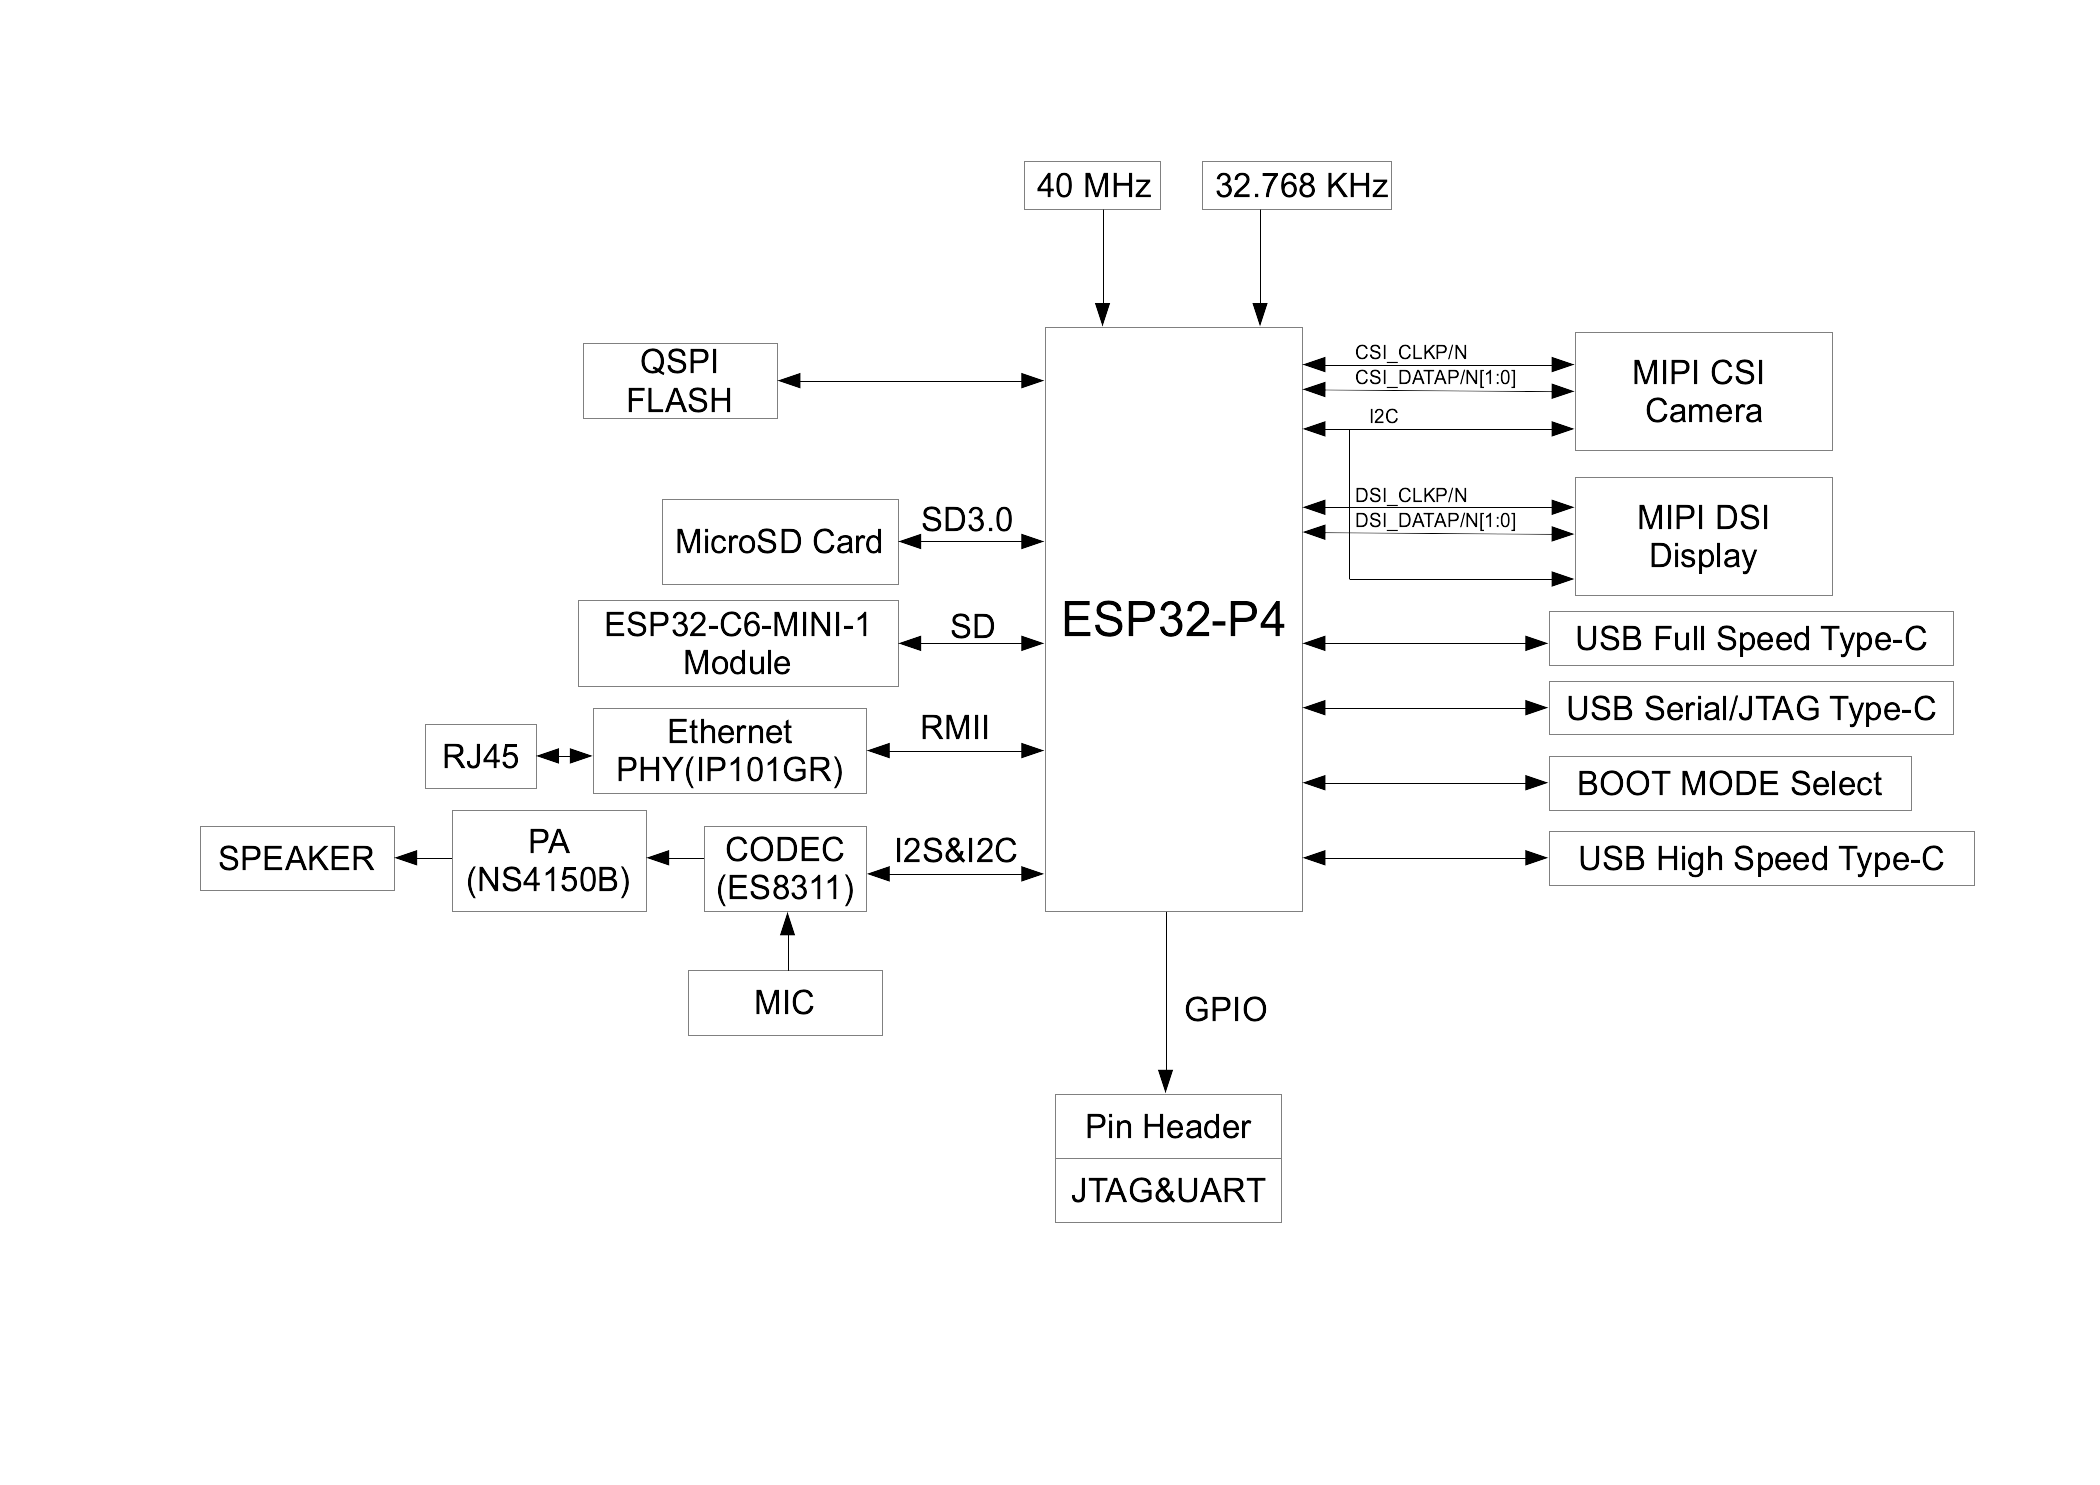
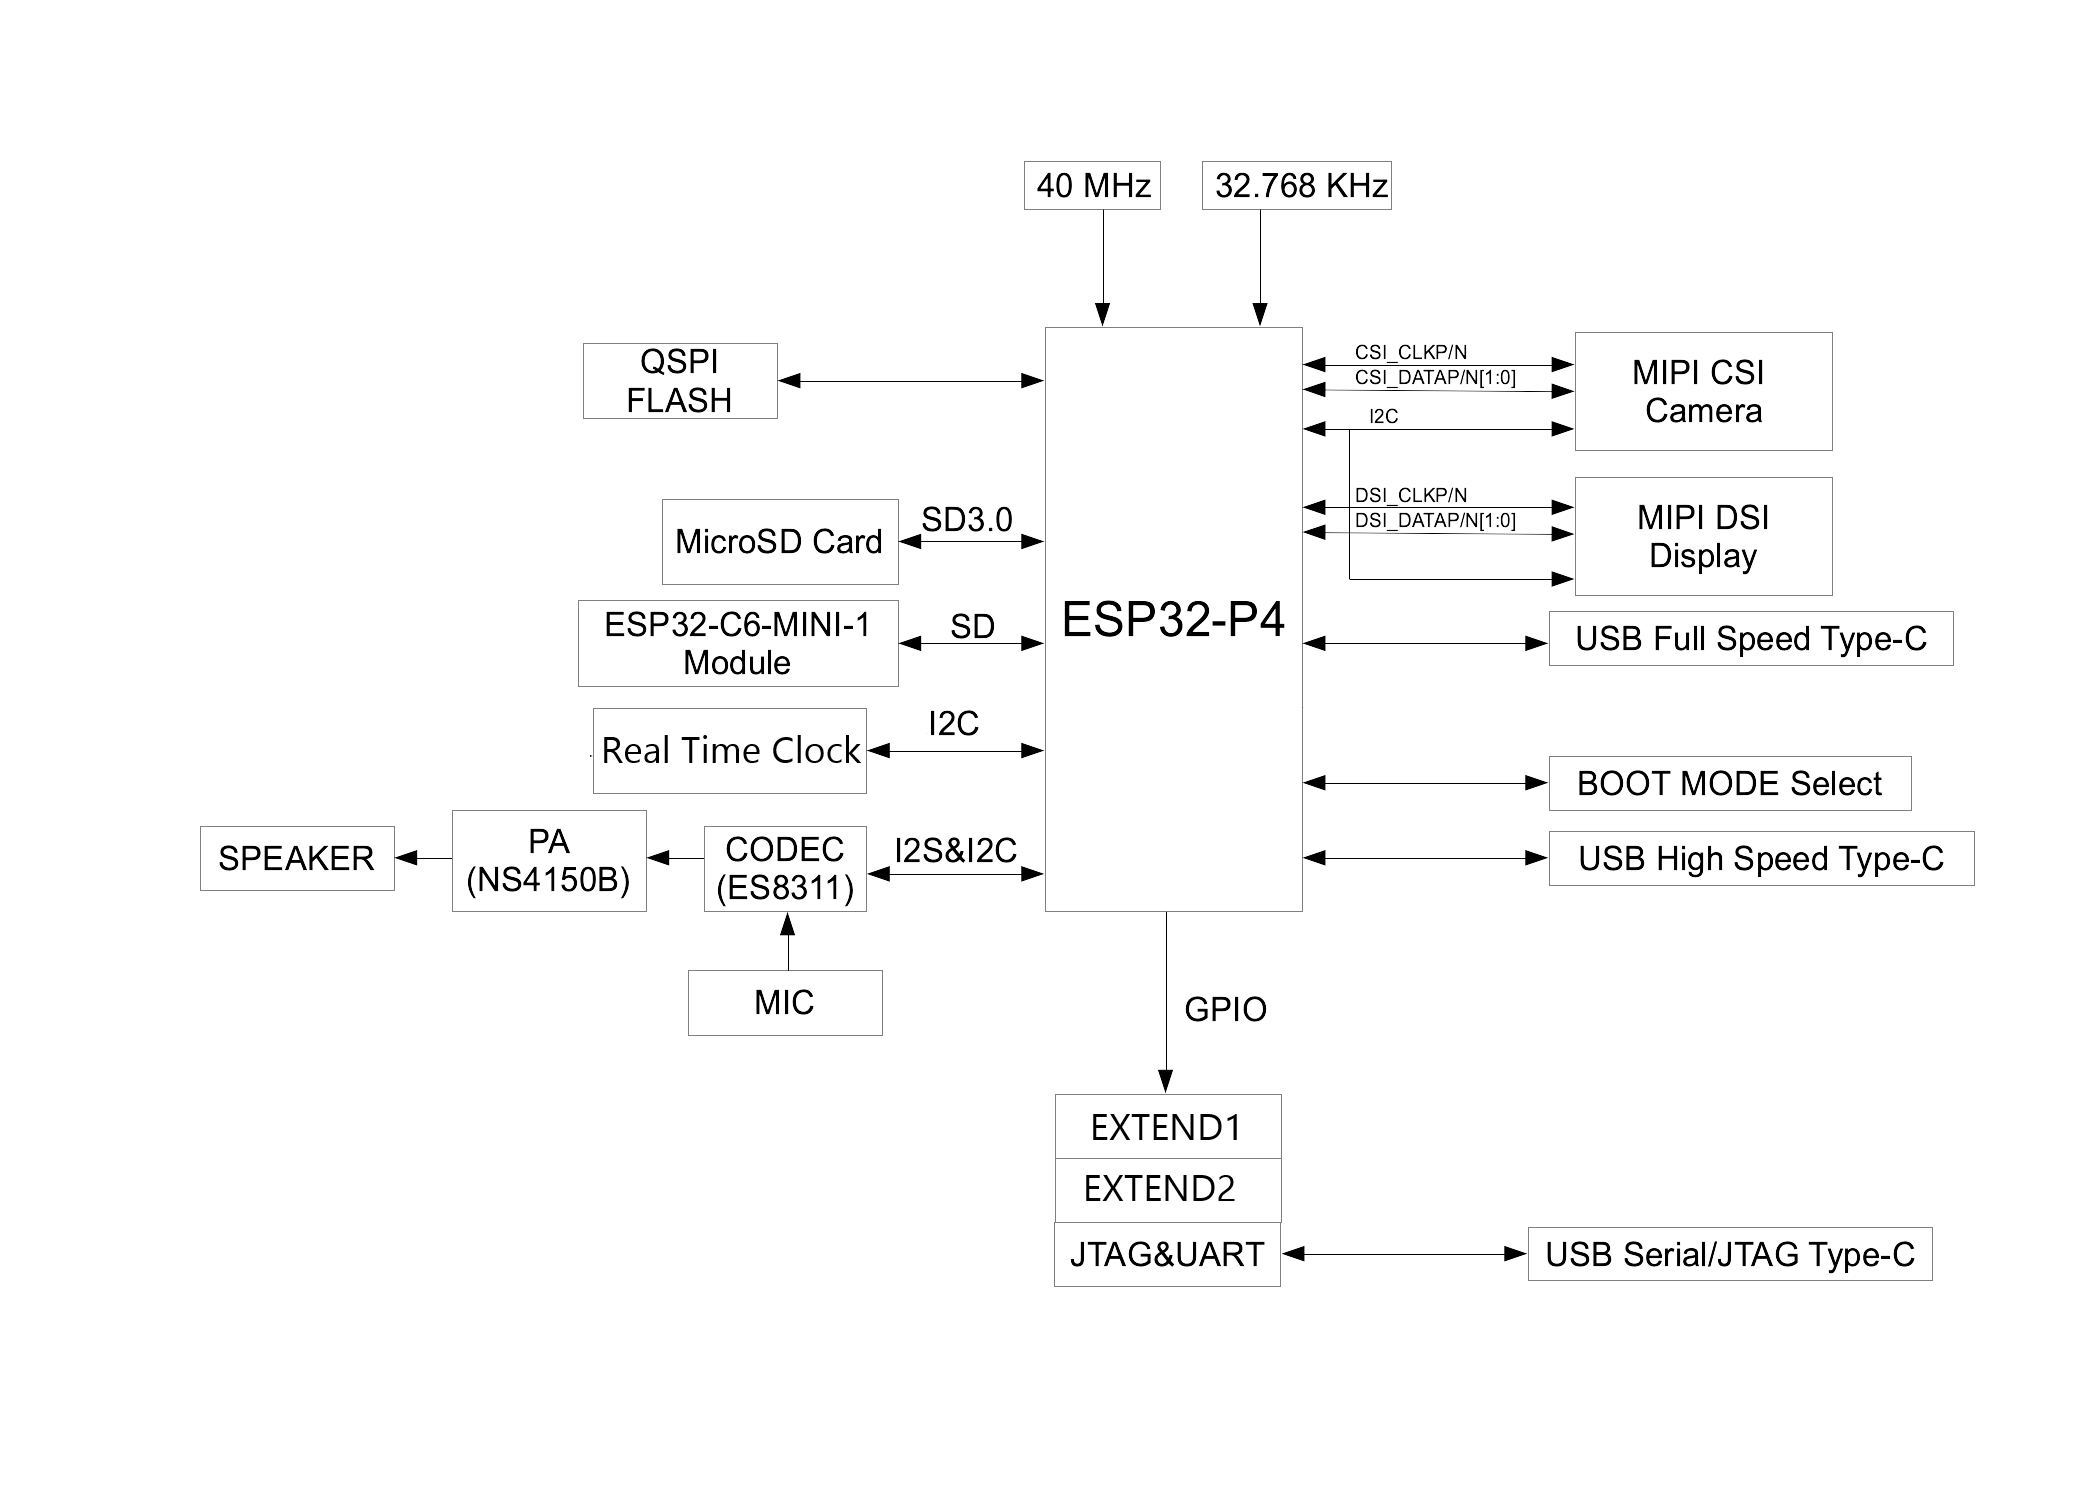
1

diff --git a/README.md b/README.md
@@ -43,3 +43,35 @@ The 2.4 GHz Wi-Fi 6 & Bluetooth 5 (LE) module ESP32-C6-MINI-1 serves as the Wi-F
 |  | NS4150B chip | Audio power amplifier Chip. 3 W mono Class D audio power amplifier that amplifies audio signals from the audio codec chip to drive speakers.|
 
 ![diagram](images/diagram.png)  
+
+The board includes an on-board ESP32-C6 module that comes pre-flashed with ESP-Hosted-MCU slave firmware (v0.0.6). This provides Wi-Fi/Bluetooth connectivity to the on-board ESP32-P4, which acts as the host.
+The ESP32-P4 can be used as a host MCU with an on-board ESP32-C6 as co-processor, already connected via SDIO as transport.
+
+## Communication P4 with C6
+[ESP-Hosted-MCU](https://github.com/espressif/esp-hosted-mcu/tree/main) is an open-source solution that allows you to use Espressif  modules (ESP32-C6) as a communication co-processor. This solution provides wireless connectivity (Wi-Fi and Bluetooth) to the host microprocessor (ESP32-P4).
+ESP-Hosted-MCU library is dependent on ESP-IDF, [esp_wifi_remote](https://github.com/espressif/esp-wifi-remote/) and [protobuf-c](https://github.com/protobuf-c/protobuf-c)
+### How it works 
+##### ESP32-P4 Host MCU
+##### ESP32-C6 Hosted Co-Processor
+- Host extends the capabilities of the Hosted co-processor through Remote Procedure Calls (RPCs). The Host MCU sends these RPC commands to the Hosted co-processor using a reliable communication bus, like SPI, SDIO, or UART. The Hosted co-processor then handles the RPC and provides the requested functionality to the Host MCU.
+- The data (network or Bluetooth) is packaged efficiently at the transport layer to minimize overhead and delays when passing between the Host and co-processor.
+- This modular design allows any MCU to be used as the Host, and any ESP chip with Wi-Fi and/or Bluetooth to be used as the Hosted co-processor. The RPC calls can also be extended to provide any function required by the Host, as long as the co-processor can support it.
+- The RPCs implemented are [listed in this document](https://github.com/espressif/esp-hosted-mcu/blob/main/docs/implemented_rpcs.md), including the ESP-Hosted release version that implements the RPCs.
+
+
+## Flashing ESP32-C6 (Optional)
+Note: The ESP32-C6 comes pre-flashed with ESP-Hosted slave firmware v0.0.6, so this step is optional unless you need to update the firmware. However, it is recommended to upgrade to the latest slave firmware to get updated features and performance optimizations.
+
+-You'll need an ESP-Prog or similar UART adapter for serial flashing.
+-Connect ESP-Prog to the `PROG_C6` header:
+
+    | ESP-Prog | CN5_C6 | Notes                   |
+    | ---      | ---     | ---                     |
+    | ESP\_EN  | EN      |                         |
+    | ESP\_TXD | TXD     |                         |
+    | ESP\_RXD | RXD     |                         |
+    | VDD      | -       | **Do not connect**      |
+    | GND      | GND     |                         |
+    | ESP\_IO0 | IO0     |                         |
+
+-Put the ESP32-P4 into bootloader mode to prevent interference:
